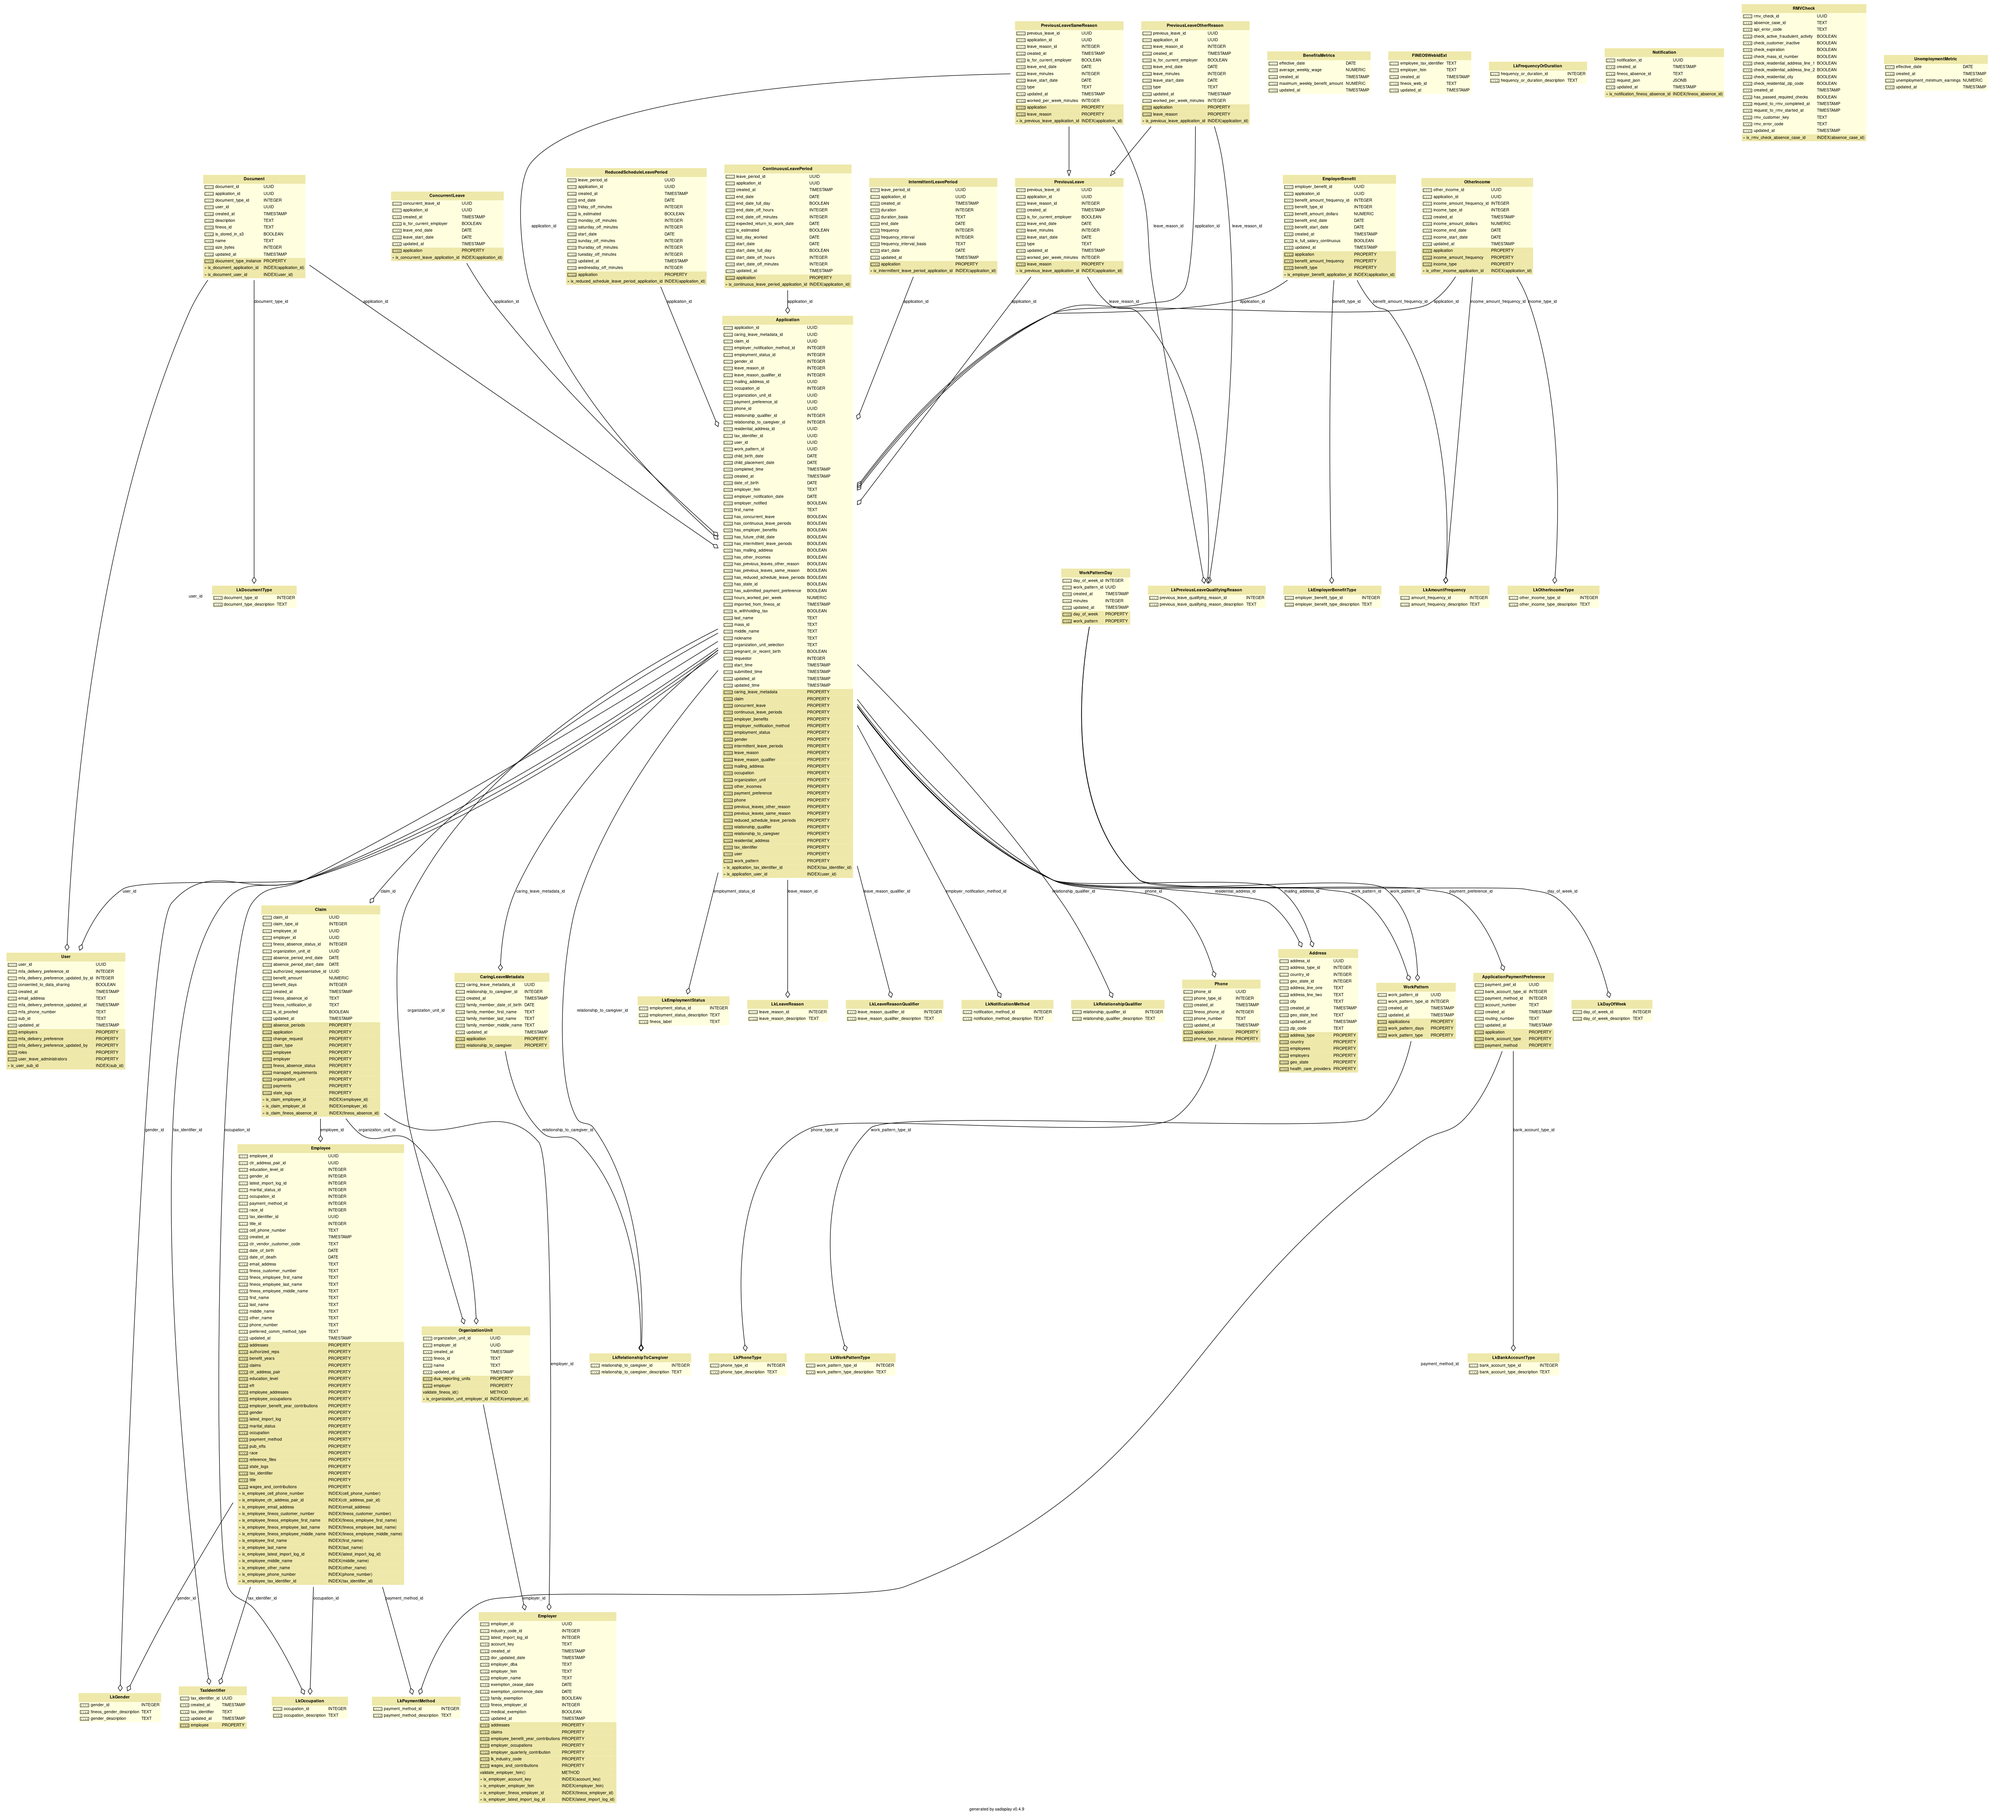
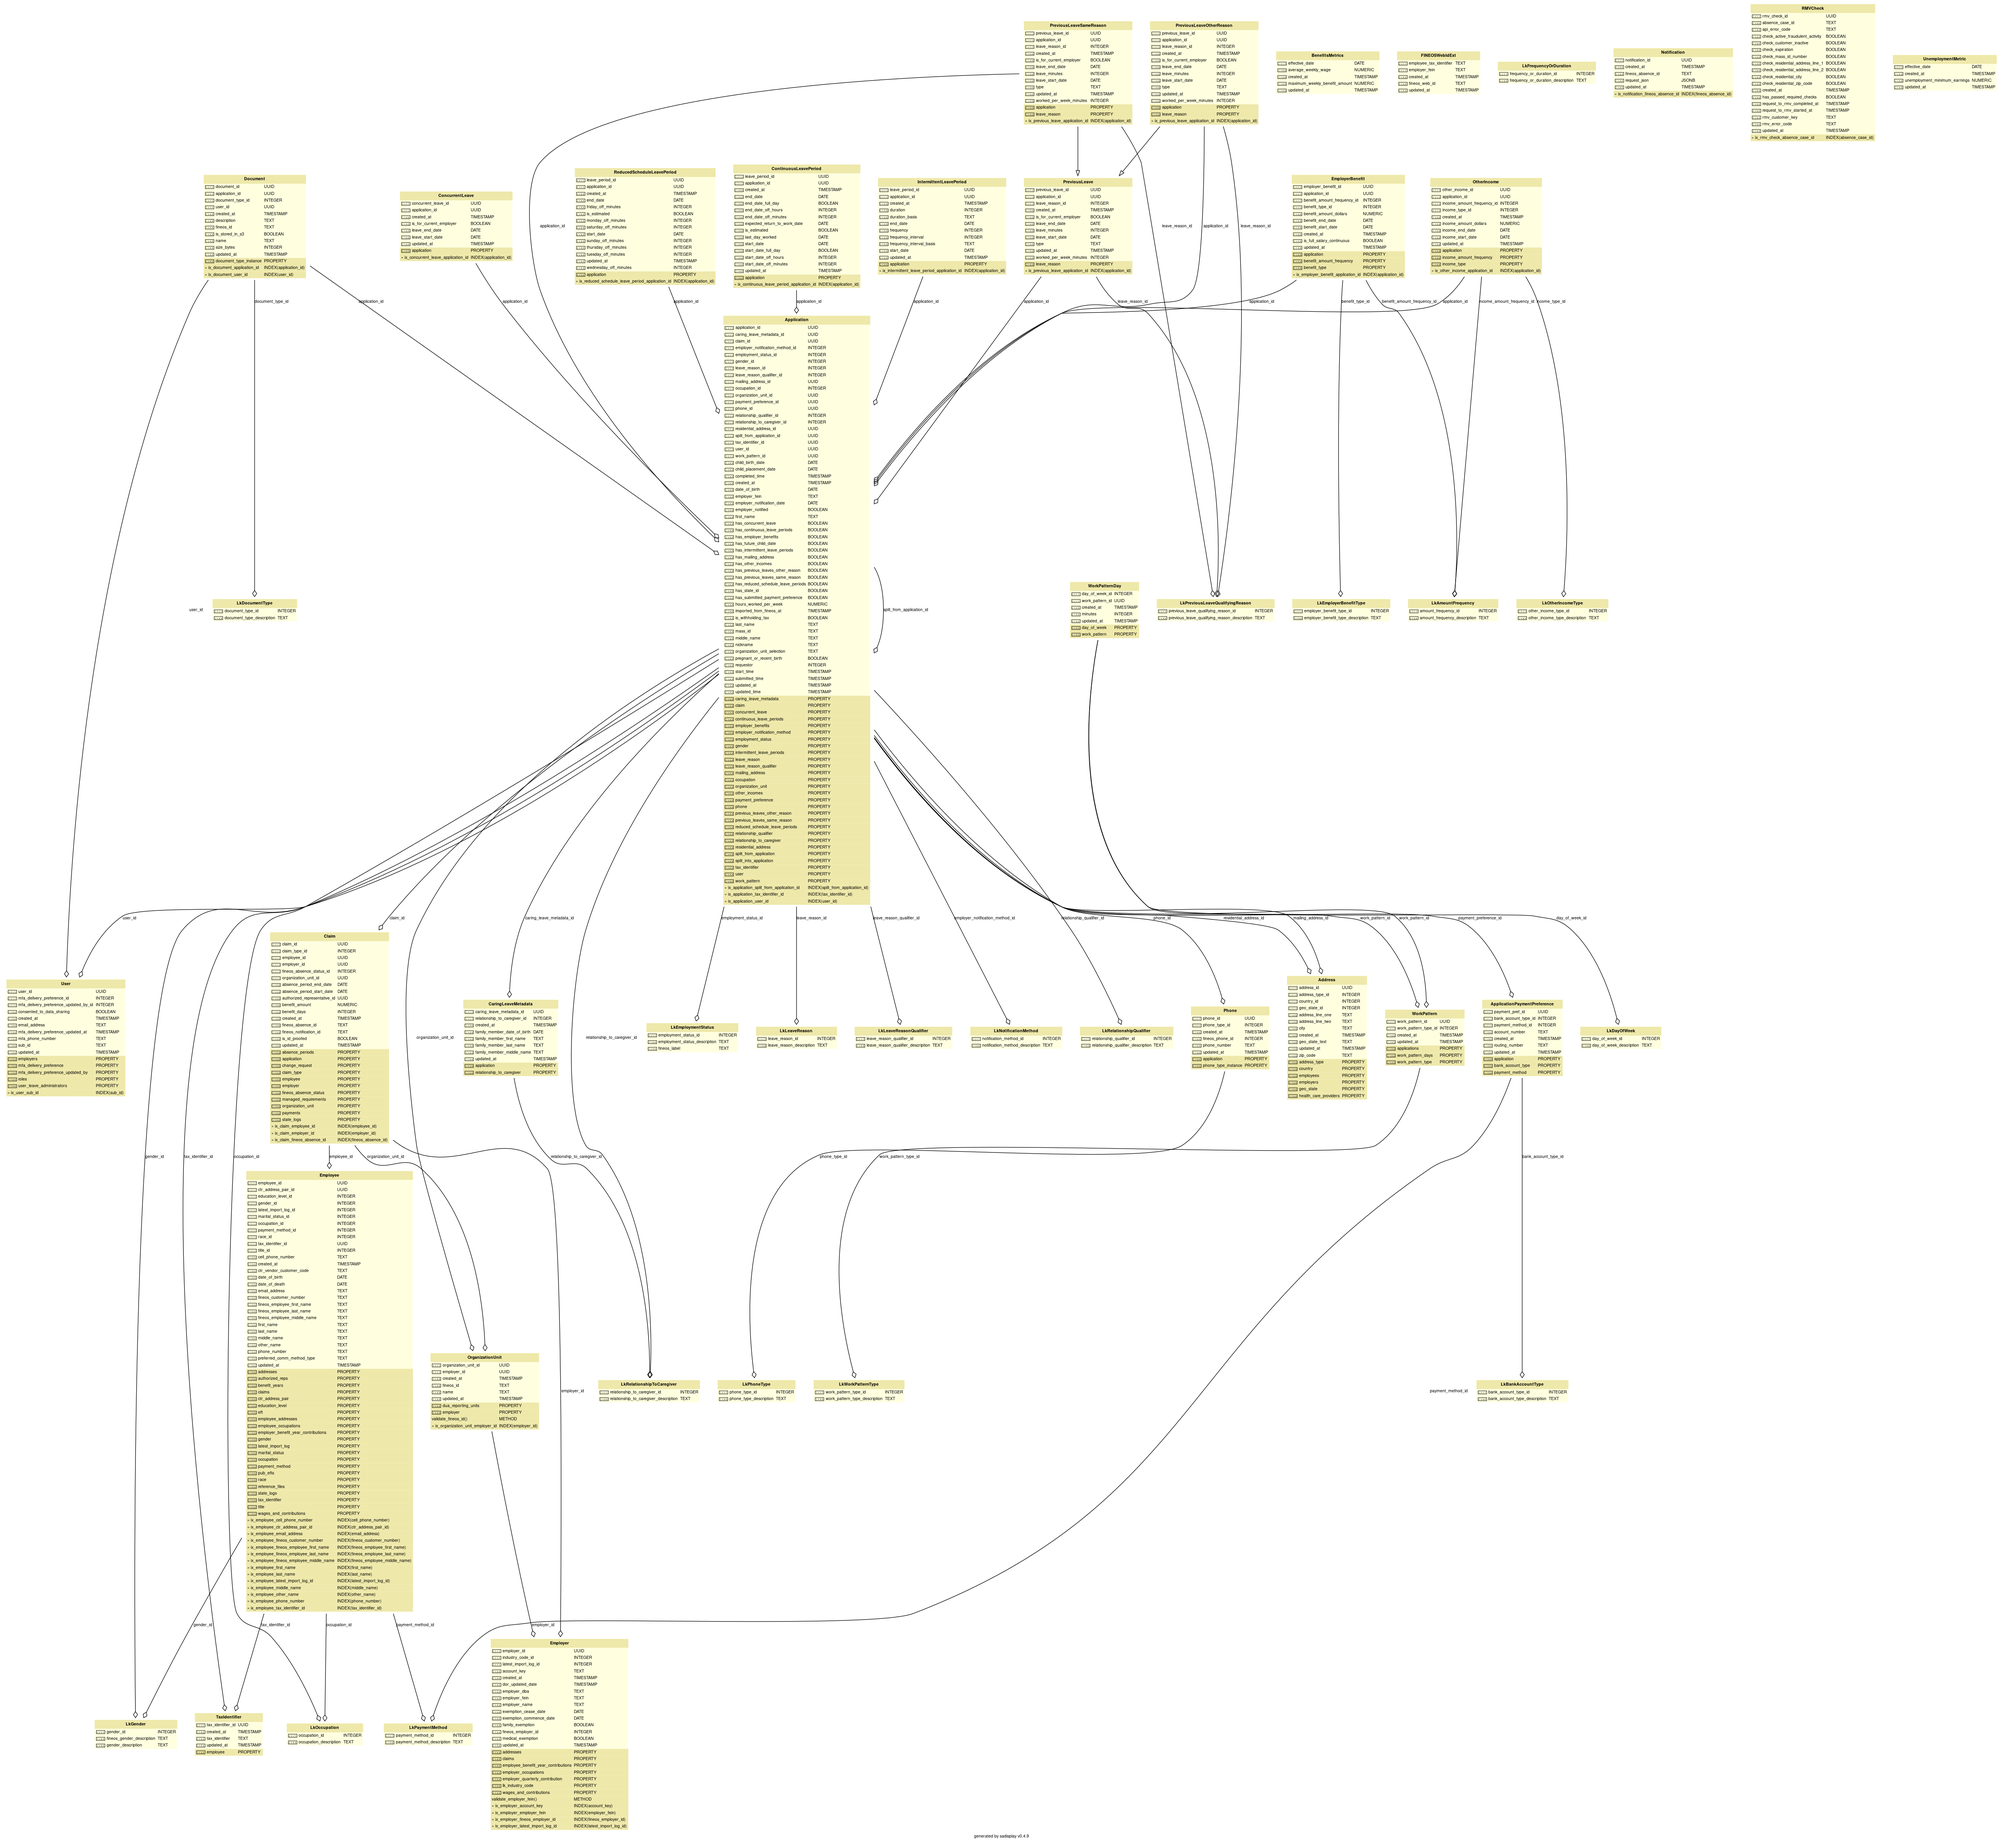
API-2445: Add optional field split_with_application_id to Applications model (#7558)

diff --git a/api/tests/api/test_applications.py b/api/tests/api/test_applications.py
@@ -248,6 +248,45 @@ def test_applications_get_with_payment_preference(client, user, auth_token, test
     assert payment_preference["payment_method"] == PaymentMethod.ACH.payment_method_description
 
 
+def test_applications_get_split_from_application_id(client, user, auth_token, test_db_session):
+    # split_from_application_id is an optional field and defaults to None
+    application = ApplicationFactory.create(user=user)
+    test_db_session.commit()
+
+    response = client.get(
+        "/v1/applications/{}".format(application.application_id),
+        headers={"Authorization": f"Bearer {auth_token}"},
+    )
+    assert response.status_code == 200
+
+    response_body = response.get_json().get("data")
+    assert response_body.get("split_from_application_id") is None
+
+    # when split_from_application_id is provided, it should also be returned
+    split_application = ApplicationFactory.create(
+        user=user, split_from_application_id=application.application_id
+    )
+    test_db_session.commit()
+    test_db_session.refresh(application)
+
+    response = client.get(
+        "/v1/applications/{}".format(split_application.application_id),
+        headers={"Authorization": f"Bearer {auth_token}"},
+    )
+    assert response.status_code == 200
+    response_body = response.get_json().get("data")
+    assert response_body.get("split_from_application_id") == str(application.application_id)
+
+    # the original request should now provide a split_into_application_id
+    response = client.get(
+        "/v1/applications/{}".format(application.application_id),
+        headers={"Authorization": f"Bearer {auth_token}"},
+    )
+    assert response.status_code == 200
+    response_body = response.get_json().get("data")
+    assert response_body.get("split_into_application_id") == str(split_application.application_id)
+
+
 def test_applications_get_all_for_user(client, user, auth_token):
     applications = sorted(
         [ApplicationFactory.create(user=user), ApplicationFactory.create(user=user)],

diff --git a/api/tests/db/models/test_applications.py b/api/tests/db/models/test_applications.py
@@ -2,7 +2,11 @@ import datetime
 from decimal import Decimal
 
 from massgov.pfml.api.eligibility import eligibility_util
-from massgov.pfml.db.models.factories import BenefitsMetricsFactory, UnemploymentMetricFactory
+from massgov.pfml.db.models.factories import (
+    ApplicationFactory,
+    BenefitsMetricsFactory,
+    UnemploymentMetricFactory,
+)
 
 
 def test_state_metric_init(initialize_factories_session, test_db_session):
@@ -44,4 +48,31 @@ def test_state_metric_init(initialize_factories_session, test_db_session):
     assert (
         benefits_metrics_data.maximum_weekly_benefit_amount
         == expected_maximum_weekly_benefit_amount
+    )
+
+
+def test_split_with_application(initialize_factories_session, test_db_session):
+    first_application = ApplicationFactory.create()
+    assert first_application.split_from_application_id is None
+    assert first_application.split_from_application is None
+    assert first_application.split_into_application is None
+
+    second_application = ApplicationFactory.create(
+        split_from_application_id=first_application.application_id
+    )
+
+    test_db_session.commit()
+    test_db_session.refresh(first_application)
+
+    assert first_application.split_from_application_id is None
+    assert first_application.split_into_application_id == second_application.application_id
+
+    assert second_application.split_from_application_id == first_application.application_id
+    assert second_application.split_into_application_id is None
+
+    assert (
+        first_application.split_into_application.application_id == second_application.application_id
+    )
+    assert (
+        second_application.split_from_application.application_id == first_application.application_id
     )

diff --git a/api/massgov/pfml/db/models/applications.py b/api/massgov/pfml/db/models/applications.py
@@ -334,6 +334,13 @@ class Application(Base, TimestampMixin):
     has_concurrent_leave = Column(Boolean)
     is_withholding_tax = Column(Boolean, nullable=True)
 
+    split_from_application_id = Column(
+        PostgreSQLUUID,
+        ForeignKey("application.application_id"),
+        nullable=True,
+        index=True,
+    )
+
     user = relationship(User)
     caring_leave_metadata = relationship("CaringLeaveMetadata", back_populates="application")
     claim = relationship(Claim, backref=backref("application", uselist=False))
@@ -351,8 +358,12 @@ class Application(Base, TimestampMixin):
     residential_address = relationship(Address, foreign_keys=[residential_address_id])
     payment_preference = relationship("ApplicationPaymentPreference", back_populates="application")
     phone = relationship("Phone", back_populates="application", uselist=False)
-
     work_pattern = relationship("WorkPattern", back_populates="applications", uselist=False)
+    split_from_application = relationship(
+        "Application",
+        backref=backref("split_into_application", uselist=False),
+        remote_side=[application_id],
+    )
 
     # `uselist` default is True, but for mypy need to state it explicitly so it
     # detects the relationship as many-to-one
@@ -451,6 +462,10 @@ class Application(Base, TimestampMixin):
             )
         )
         return leave_periods
+
+    @hybrid_property
+    def split_into_application_id(self):
+        return self.split_into_application.application_id if self.split_into_application else None  # type: ignore
 
 
 class CaringLeaveMetadata(Base, TimestampMixin):

diff --git a/api/massgov/pfml/db/migrations/versions/2022_03_03_16_29_43_028f08735753_add_relationship_between_applications_.py b/api/massgov/pfml/db/migrations/versions/2022_03_03_16_29_43_028f08735753_add_relationship_between_applications_.py
@@ -1,0 +1,46 @@
+"""add relationship between applications that were split
+
+Revision ID: 028f08735753
+Revises: bb297dde715e
+Create Date: 2022-03-03 16:29:43.516695
+
+"""
+import sqlalchemy as sa
+from alembic import op
+from sqlalchemy.dialects import postgresql
+
+# revision identifiers, used by Alembic.
+revision = "028f08735753"
+down_revision = "bb297dde715e"
+branch_labels = None
+depends_on = None
+
+
+def upgrade():
+    # ### commands auto generated by Alembic - please adjust! ###
+    op.add_column(
+        "application",
+        sa.Column("split_from_application_id", postgresql.UUID(as_uuid=True), nullable=True),
+    )
+    op.create_index(
+        op.f("ix_application_split_from_application_id"),
+        "application",
+        ["split_from_application_id"],
+        unique=False,
+    )
+    op.create_foreign_key(
+        "split_from_application_id_fkey",
+        "application",
+        "application",
+        ["split_from_application_id"],
+        ["application_id"],
+    )
+    # ### end Alembic commands ###
+
+
+def downgrade():
+    # ### commands auto generated by Alembic - please adjust! ###
+    op.drop_constraint("split_from_application_id_fkey", "application", type_="foreignkey")
+    op.drop_index(op.f("ix_application_split_from_application_id"), table_name="application")
+    op.drop_column("application", "split_from_application_id")
+    # ### end Alembic commands ###

diff --git a/api/tests/util/logging/test_applications.py b/api/tests/util/logging/test_applications.py
@@ -84,6 +84,7 @@ def test_get_application_log_attributes(user, test_db_session, initialize_factor
         "application.updated_at.timestamp": str(application.updated_at.timestamp()),
         "work_pattern.work_pattern_type": None,
         "application.is_withholding_tax": None,
+        "application.split_from_application_id": None,
     }
     assert log_attributes == expected_attributes
 

diff --git a/api/massgov/pfml/api/models/applications/responses.py b/api/massgov/pfml/api/models/applications/responses.py
@@ -93,6 +93,8 @@ class ApplicationResponse(PydanticBaseModel):
     imported_from_fineos_at: Optional[datetime]
     updated_at: datetime
     computed_start_dates: Optional[ComputedStartDates]
+    split_from_application_id: Optional[UUID4]
+    split_into_application_id: Optional[UUID4]
 
     @classmethod
     def from_orm(cls, application: Application) -> "ApplicationResponse":

diff --git a/api/massgov/pfml/db/models/factories.py b/api/massgov/pfml/db/models/factories.py
@@ -612,6 +612,7 @@ class ApplicationFactory(BaseFactory):
         application_models.LeaveReason.SERIOUS_HEALTH_CONDITION_EMPLOYEE.leave_reason_id
     )
     leave_reason_qualifier_id = None
+    split_from_application_id = None
 
     created_at = Generators.TransactionDateTime
     updated_at = factory.LazyAttribute(lambda a: a.created_at + timedelta(days=1))

diff --git a/api/massgov/pfml/util/logging/applications.py b/api/massgov/pfml/util/logging/applications.py
@@ -75,6 +75,7 @@ def get_application_log_attributes(application: Application) -> Dict[str, Option
         "updated_at",
         "completed_time",
         "submitted_time",
+        "split_from_application_id",
     ]
 
     timestamp_attributes_to_log = ["created_at", "updated_at", "completed_time", "submitted_time"]
